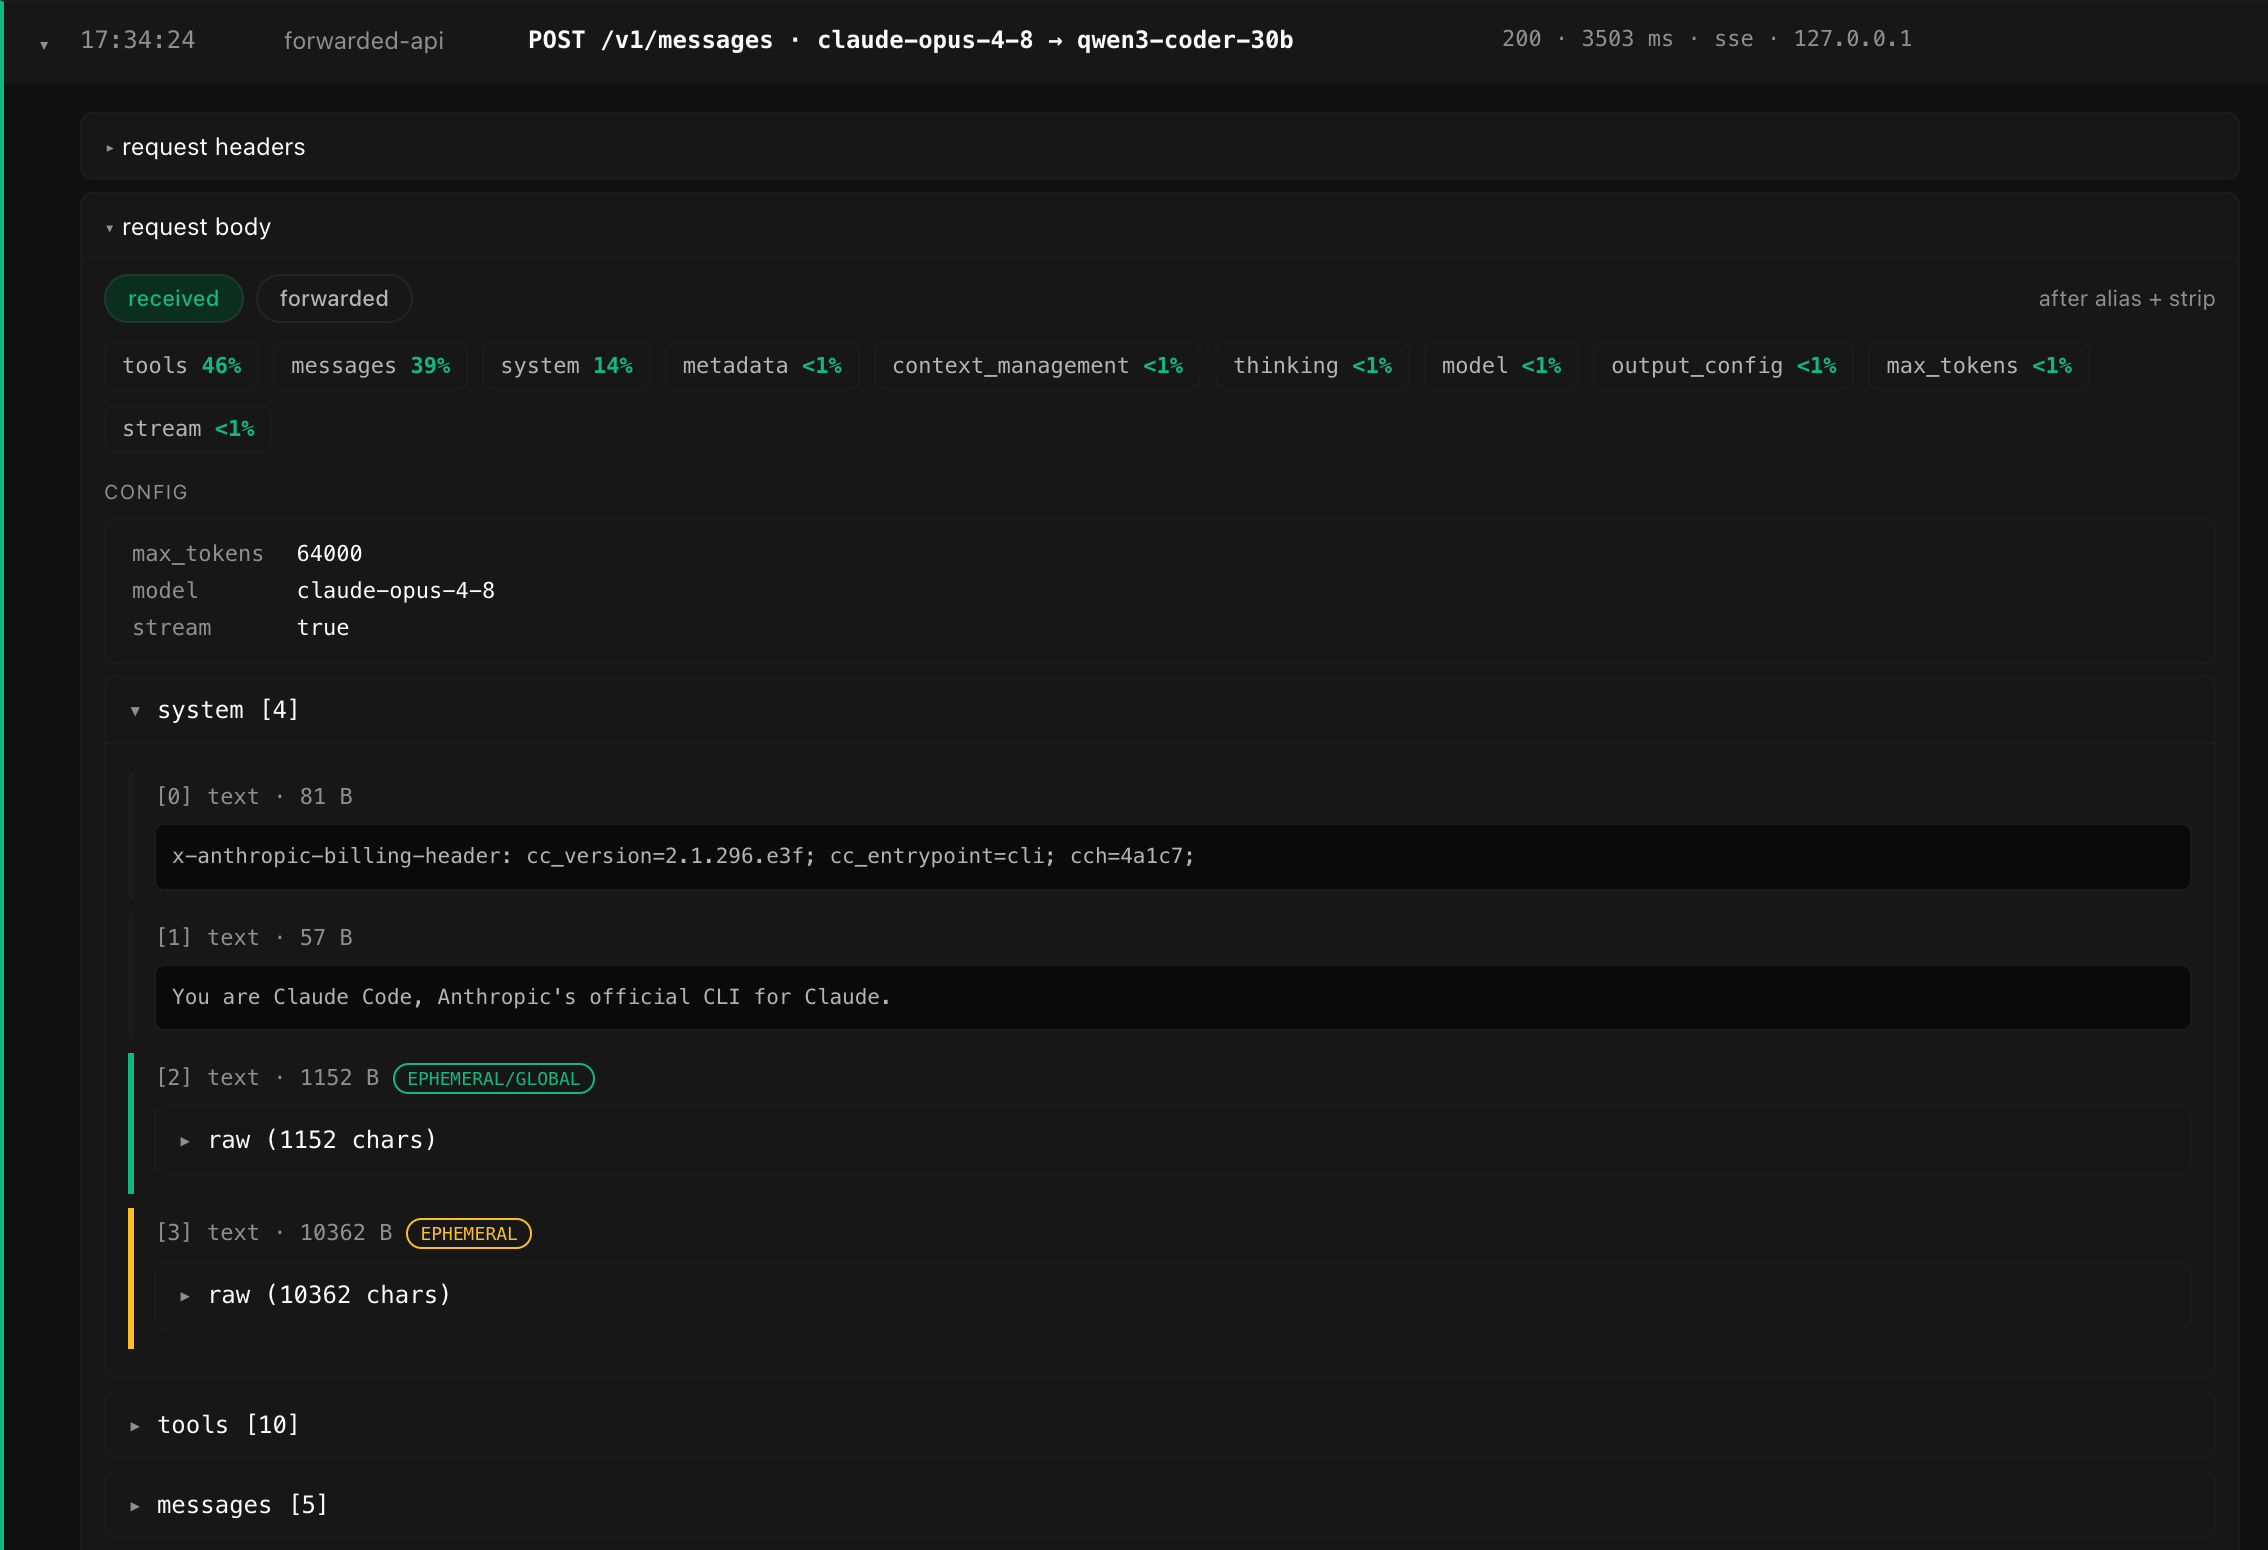
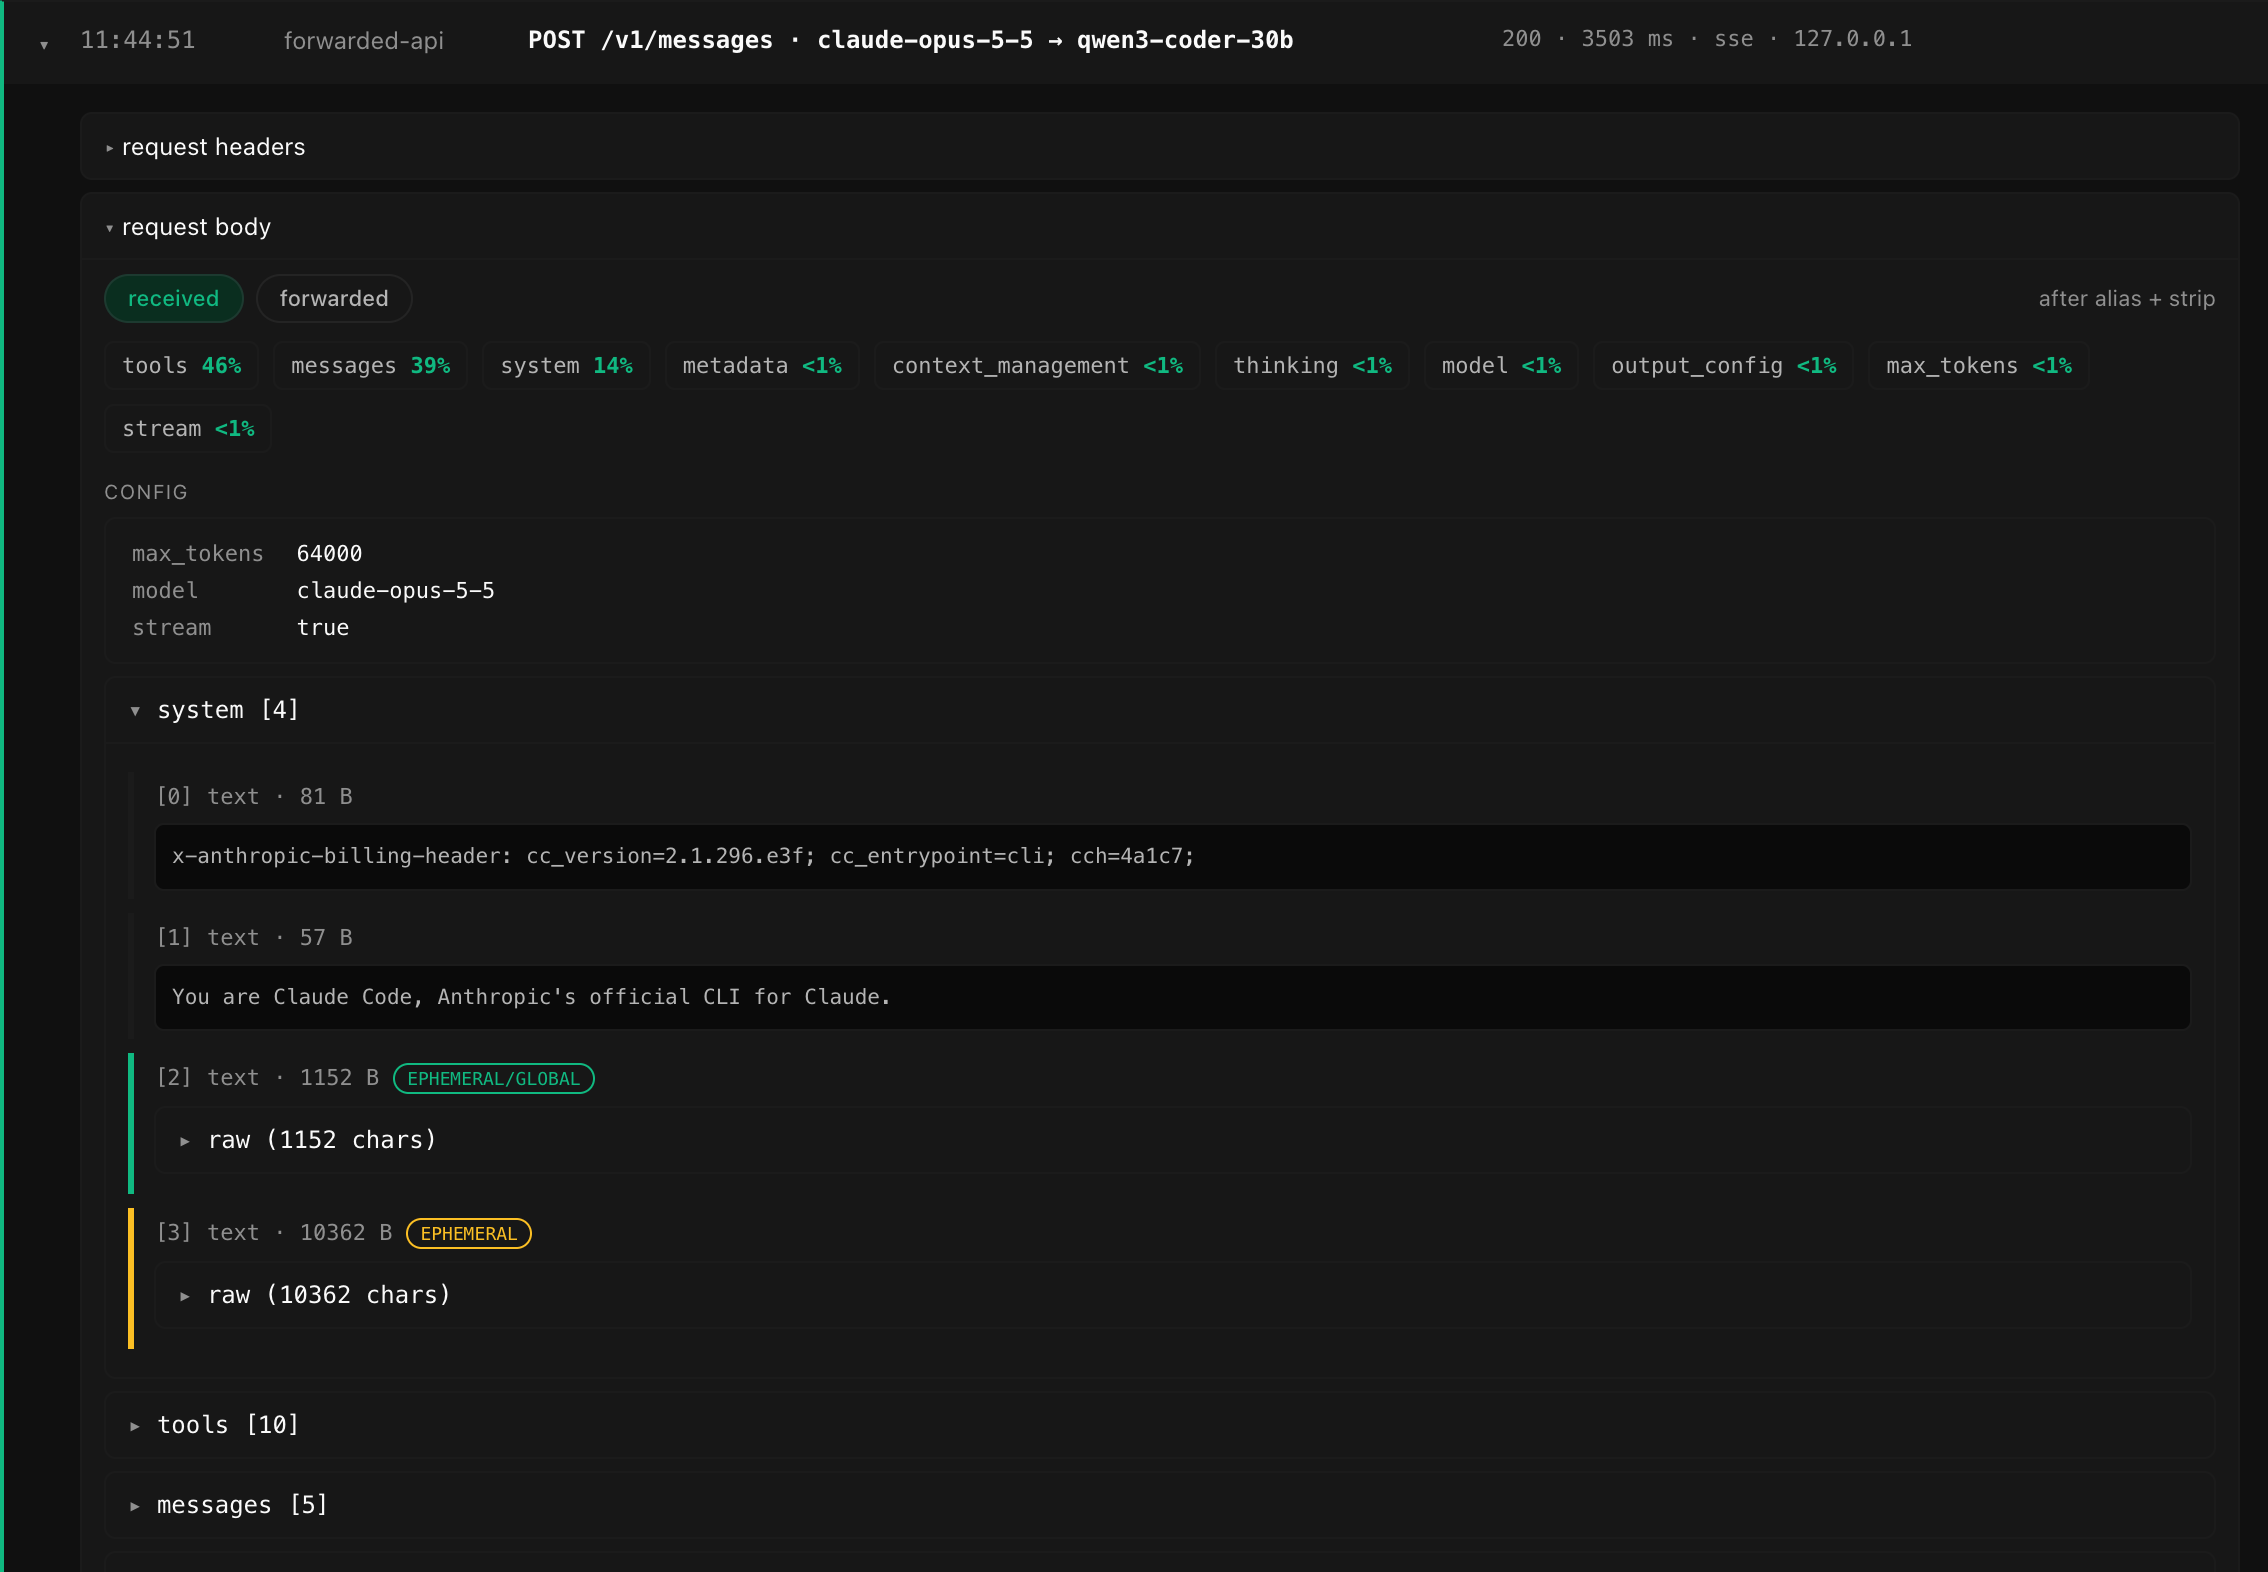
docs: README 清理过时说明，示例换成当前的模型 ID
- 研究请求形态的示例改用 claude-fable-5-1，去掉 fable-5 停用期间降级到 2.1.176 的说明和两张截图
- 示例里的 claude-opus-4-8、claude-sonnet-4-6 换成 claude-opus-5-5、claude-sonnet-5-5；DeepSeek 示例改用它现在的模型名 deepseek-flash
- 新建 profile、请求体、模型别名三张截图按新的模型 ID 重拍；别名截图换成 Profile 页的 Model aliases 卡片
- capture 示例的输出文件名改为 v2.1.296.json

diff --git a/README.en.md b/README.en.md
@@ -73,7 +73,7 @@ ccwrap profile add deepseek \
   --base-url https://api.deepseek.com/anthropic \
   --auth-mode ccwrap_bearer \
   --auth-key sk-xxxxxxxxxxxxxxxxxxxxxxxxxxxxxxxx \
-  --model-alias claude-opus-4-8=deepseek-v4-flash
+  --model-alias claude-opus-5-5=deepseek-flash
 ccwrap --profile deepseek
 ```
 
@@ -107,7 +107,7 @@ Run `ccwrap open` to open ccwrap ui (or Ctrl+click the link after `inspect` in t
 
    ![image-20260618143526134](assets/image-20260618143526134.png)
 
-   Locally, Claude Code only ever sees Claude model IDs (`claude-sonnet-4-6`, `claude-opus-4-8`, etc.); the actual request is rewritten to the mapped model. Source precedence:
+   Locally, Claude Code only ever sees Claude model IDs (`claude-sonnet-5-5`, `claude-opus-5-5`, etc.); the actual request is rewritten to the mapped model. Source precedence:
 
    1. The active profile's `model_aliases`
    2. `--model-alias-file PATH` or `CCWRAP_MODEL_ALIASES_FILE`
@@ -136,19 +136,13 @@ Run `ccwrap open` to open ccwrap ui (or Ctrl+click the link after `inspect` in t
 
    **Bonus: study a model's request shape**
 
-   With a model name that hasn't "shipped" yet, you can see how Claude Code organizes a request for it, then use an alias to route the actual call to a model that can answer:
+   Claude Code shapes each request for the model it's using. Send the actual call to another model with an alias, and you can see the requests Claude Code makes for a model, even one your upstream doesn't serve:
 
    ```bash
-   ccwrap --model-alias claude-fable-5=claude-opus-4-8 --model claude-fable-5 --capture-bodies
+   ccwrap --model-alias claude-fable-5-1=claude-opus-5-5 --model claude-fable-5-1 --capture-bodies
    ```
 
-   `--model claude-fable-5` makes Claude Code assemble the request as `fable-5`, which opens up request shapes it wouldn't otherwise send (model-related betas, system / harness blocks). The alias rewrites the upstream call to `claude-opus-4-8` so the request can actually return (`claude-fable-5` is currently retired). Together with `--capture-bodies`, you can see the request body Claude Code actually emits, for study.
-
-   Note that newer clients (>2.1.176) hard-intercept the fable-5 model, so you need to downgrade to 2.1.176:
-
-   | 2.1.176 | >2.1.176 |
-   | --- | --- |
-   | ![image-20260618145054775](assets/image-20260618145054775.png) | ![image-20260618144849100](assets/image-20260618144849100.png) |
+   `--model claude-fable-5-1` makes Claude Code assemble requests for Fable 5.1, including the parts specific to that model (model-related betas, system / harness blocks); the alias rewrites the upstream call to `claude-opus-5-5`. Together with `--capture-bodies`, you can see the request body Claude Code actually emits, for study.
 
 3. **Fix third-party caching**
 
@@ -200,7 +194,7 @@ Run `ccwrap open` to open ccwrap ui (or Ctrl+click the link after `inspect` in t
 
    ![image-20260620115343451](assets/image-20260620115343451.png)
 
-   You can see why a request failed even without body capture: every request shows its model mapping (`claude-opus-4-8 → gpt-5.5`, or `(no alias)` when unmapped), and a failed one keeps the error the upstream returned plus ccwrap's suggested fix — expand the row to read them. The line under the Traffic cell counts failed model requests, and when Claude Code retries, the same error folds into one Errors entry with a repeat count. `ccwrap dashboard` in the terminal shows the same.
+   You can see why a request failed even without body capture: every request shows its model mapping (`claude-opus-5-5 → gpt-5.5`, or `(no alias)` when unmapped), and a failed one keeps the error the upstream returned plus ccwrap's suggested fix — expand the row to read them. The line under the Traffic cell counts failed model requests, and when Claude Code retries, the same error folds into one Errors entry with a repeat count. `ccwrap dashboard` in the terminal shows the same.
 
 Note: using this tool may trigger some first-party features (e.g. sending `cache_control: { scope: "global" }`, or adding `eager_input_streaming: true` to tool schemas to avoid hangs on large tool inputs), but if the upstream server doesn't handle those requests, unexpected behavior may occur.
 
@@ -281,7 +275,7 @@ A profile is a named bundle of config: base URL, auth, model aliases, upstream h
       "provider": "openrouter",
       "base_url": "https://gateway.example",
       "auth": {"mode": "ccwrap_bearer", "key": "sk-..."},
-      "model_aliases": {"claude-opus-4-8": "gpt-5.5"},
+      "model_aliases": {"claude-opus-5-5": "gpt-5.5"},
       "upstream_headers": {"X-Gateway-Tenant": "team-a"},
       "egress": {"mode": "inherit"}
     }
@@ -320,7 +314,7 @@ ccwrap profile status                      # the profile the active session is u
 ccwrap profile add gateway \
   --base-url https://gateway.example \
   --auth-mode ccwrap_bearer --auth-key "$KEY" \
-  --model-alias claude-opus-4-8=gpt-5.5 \
+  --model-alias claude-opus-5-5=gpt-5.5 \
   --upstream-header X-Gateway-Tenant=team-a
 ccwrap profile edit gateway --auth-key-env GATEWAY_KEY
 ccwrap profile switch gateway              # live hot-swap (no Claude relaunch)
@@ -385,7 +379,7 @@ Other non-gateway `api.anthropic.com` paths receive a silent `204 No Content`: r
 <details>
 <summary>why strip · what gets stripped</summary>
 
-When the alias-rewritten model is **not** `claude-*` (typical with gateway routing like `claude-opus-4-8 → gpt-5.5`, `deepseek`, etc.), ccwrap additionally drops two Claude Code-specific system blocks from the request body:
+When the alias-rewritten model is **not** `claude-*` (typical with gateway routing like `claude-opus-5-5 → gpt-5.5`, `deepseek`, etc.), ccwrap additionally drops two Claude Code-specific system blocks from the request body:
 
 1. `x-anthropic-billing-header: cc_version=...; cc_entrypoint=cli; cch=...` — Anthropic's billing/attestation pixel; non-Anthropic upstreams treat it as a literal system instruction.
 2. `You are Claude Code, Anthropic's official CLI for Claude.` (and the two Agent-SDK variants) — Claude Code's identity preamble; for a non-Claude model it amounts to telling it to impersonate Claude Code.
@@ -477,7 +471,7 @@ ccwrap only performs best-effort local / cache policy inspection before launch: 
 `ccwrap capture` is the headless counterpart of the request inspector: it launches a one-shot Claude session through the proxy, waits for the first matching `/v1/messages` exchange, and prints a single JSON object (request body; optionally response, headers, TLS fingerprint) to stdout. Built for diffing what different Claude Code versions put on the wire — system prompt, tool schemas, beta flags.
 
 ```bash
-ccwrap capture --full -- -p "hi" > v2.1.30.json   # body + response + headers + TLS
+ccwrap capture --full -- -p "hi" > v2.1.296.json   # body + response + headers + TLS
 ccwrap capture --tls-only                         # JA3 / JA4 / peetprint only
 ccwrap capture --main-inference -- -p "hi"        # skip quota/title/Warmup calls; grab the real agent inference
 ccwrap capture --print-diff-filter                # canonical jq filter that strips per-run noise for diffing
